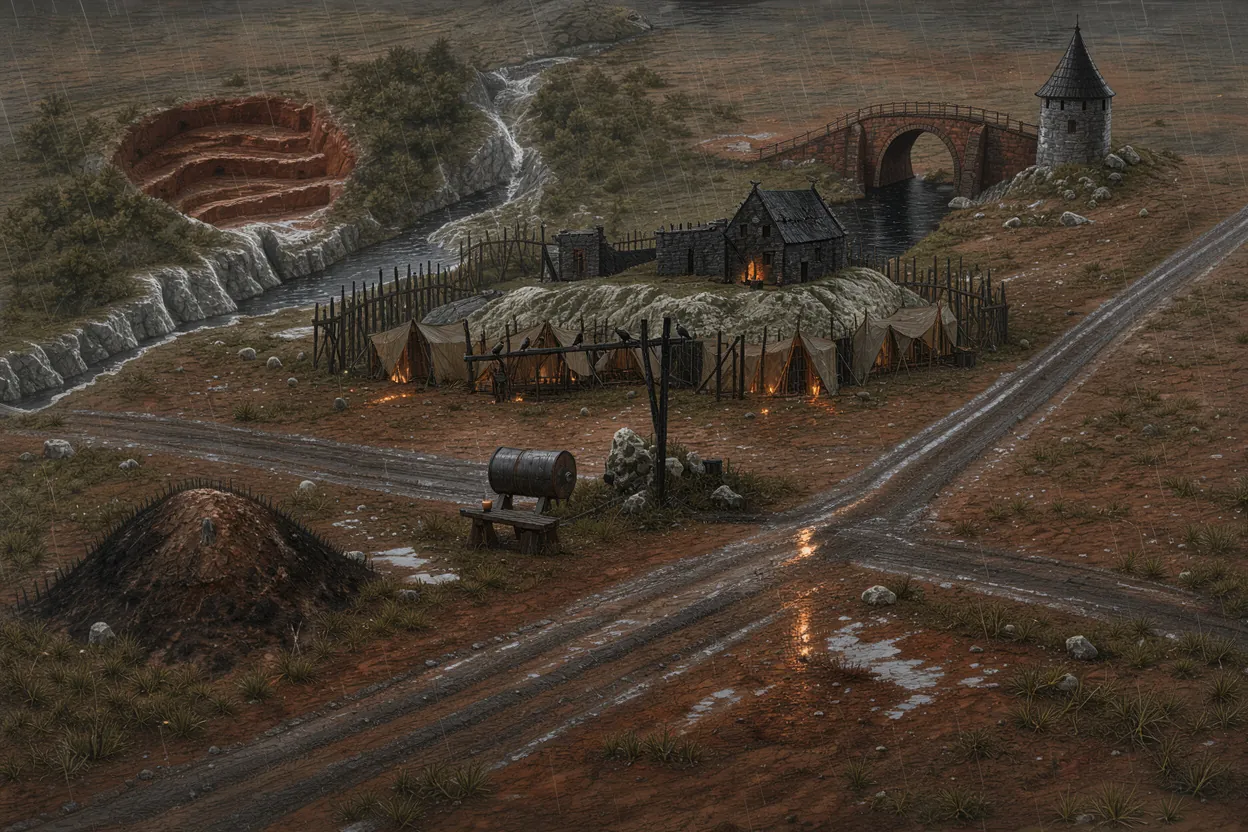
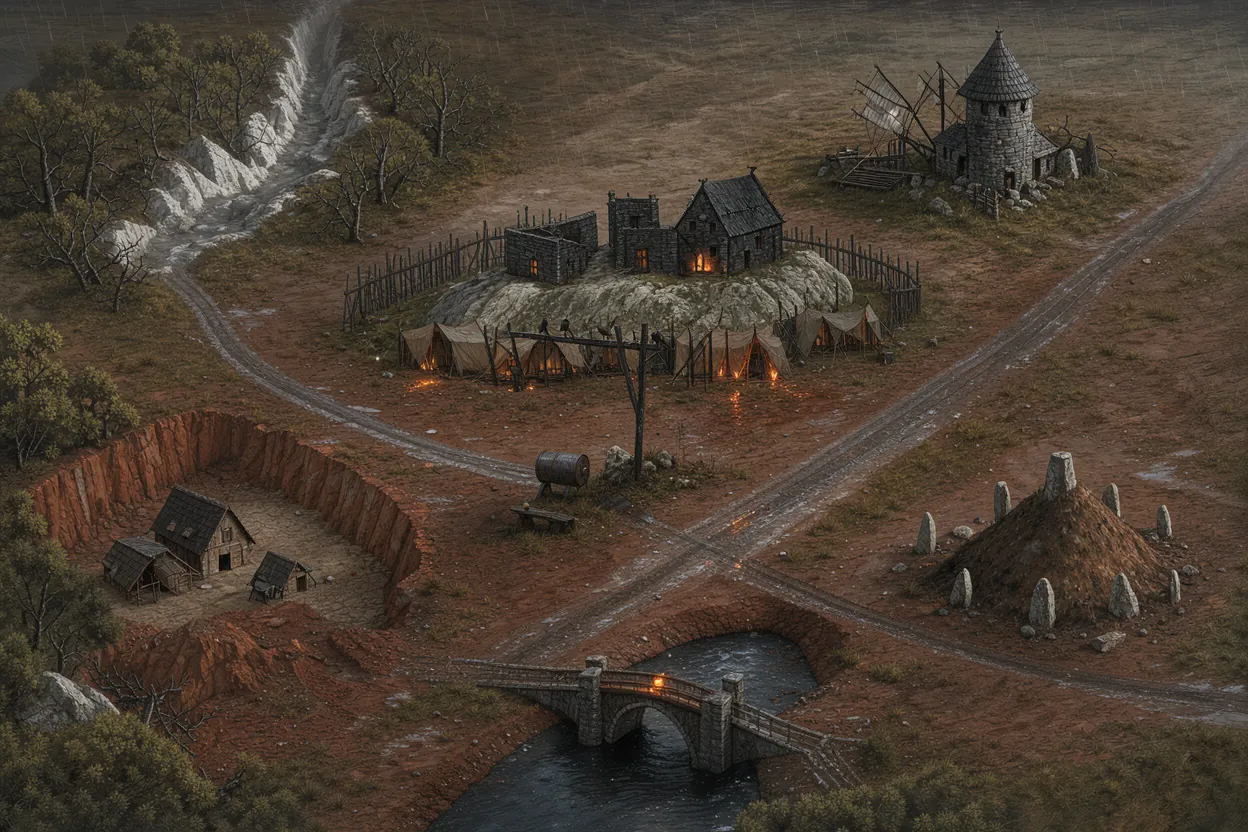
La Marche d'Ombrefiel : carte du carrefour regénérée, positions recalées sur les cartes
- Carte du carrefour regénérée avec une disposition cardinale explicite (retouche dans
  images.json, ≈ 0,01 $) : combe au nord-ouest, moulin au nord-est, carrière au sud-ouest,
  tertre au sud-est, pont au sud, auberge au centre.
- Positions des 6 lieux du carrefour et des 5 salles de l'auberge posées d'après les images
  (le service d'images ne place pas les lieux : l'image fait foi), vérifiées sur calques.
- Entrée de JOURNAL.

diff --git a/docs/JOURNAL.md b/docs/JOURNAL.md
@@ -1805,3 +1805,4 @@ Demande de l'utilisateur : un skill pour construire les autres histoires.
 - **Publiée** : `statut: publie` dans `monde.json`. Le chapitre est ramené à ce qui est écrit : « Prologue — Le Carrefour d'Aldric » (niveaux 1 à 3, les 9 quêtes de la zone 1) ; le résumé et l'accroche du monde entier sont inchangés (comme Ombresang). `estimation.json` généré (`pnpm monde estimer` : ≈ 6 h, 190 tours dont 87 racontés ; ≈ 2 $ Opus, 1,2 $ Sonnet, 0,2 $ Haiku, + 0,1 $ d'images du groupe).
 - **Test du registre** : `registre.test.ts` exempte ce monde de la règle « 65 % des ids de la BIBLE existent » (`HISTOIRES_PUBLIEES_EN_PROLOGUE`) tant que les zones 2 à 6 ne sont pas écrites ; à retirer de la liste quand elles existeront.
 - **Ce que trouve le joueur** : la zone 1 complète, la scène « La route s'ouvre » comme fin provisoire de la première partie, aucune vraie fin ; les sorties vers Sombreval et Haute-Garde annoncent « bientôt ».
+- **Cartes de la Marche : positions posées d'après les images (11/11/2026)** : la carte du carrefour a été regénérée avec une disposition cardinale explicite (retouche `carte-ald-carrefour-d-aldric` dans `images.json`, ≈ 0,01 $ : combe au nord-ouest, moulin au nord-est, carrière au sud-ouest, tertre au sud-est, pont au sud, auberge au centre) ; les `position` des 6 lieux du carrefour et des 5 salles de l'auberge ont été recalées sur les images (le service d'images ne place pas les lieux où on le demande : l'image fait foi), vérifiées sur des calques de points. Cartes encore manquantes ailleurs : Val des Cendres 14, La Citadelle 1, La Dîme des Roseaux 1.
